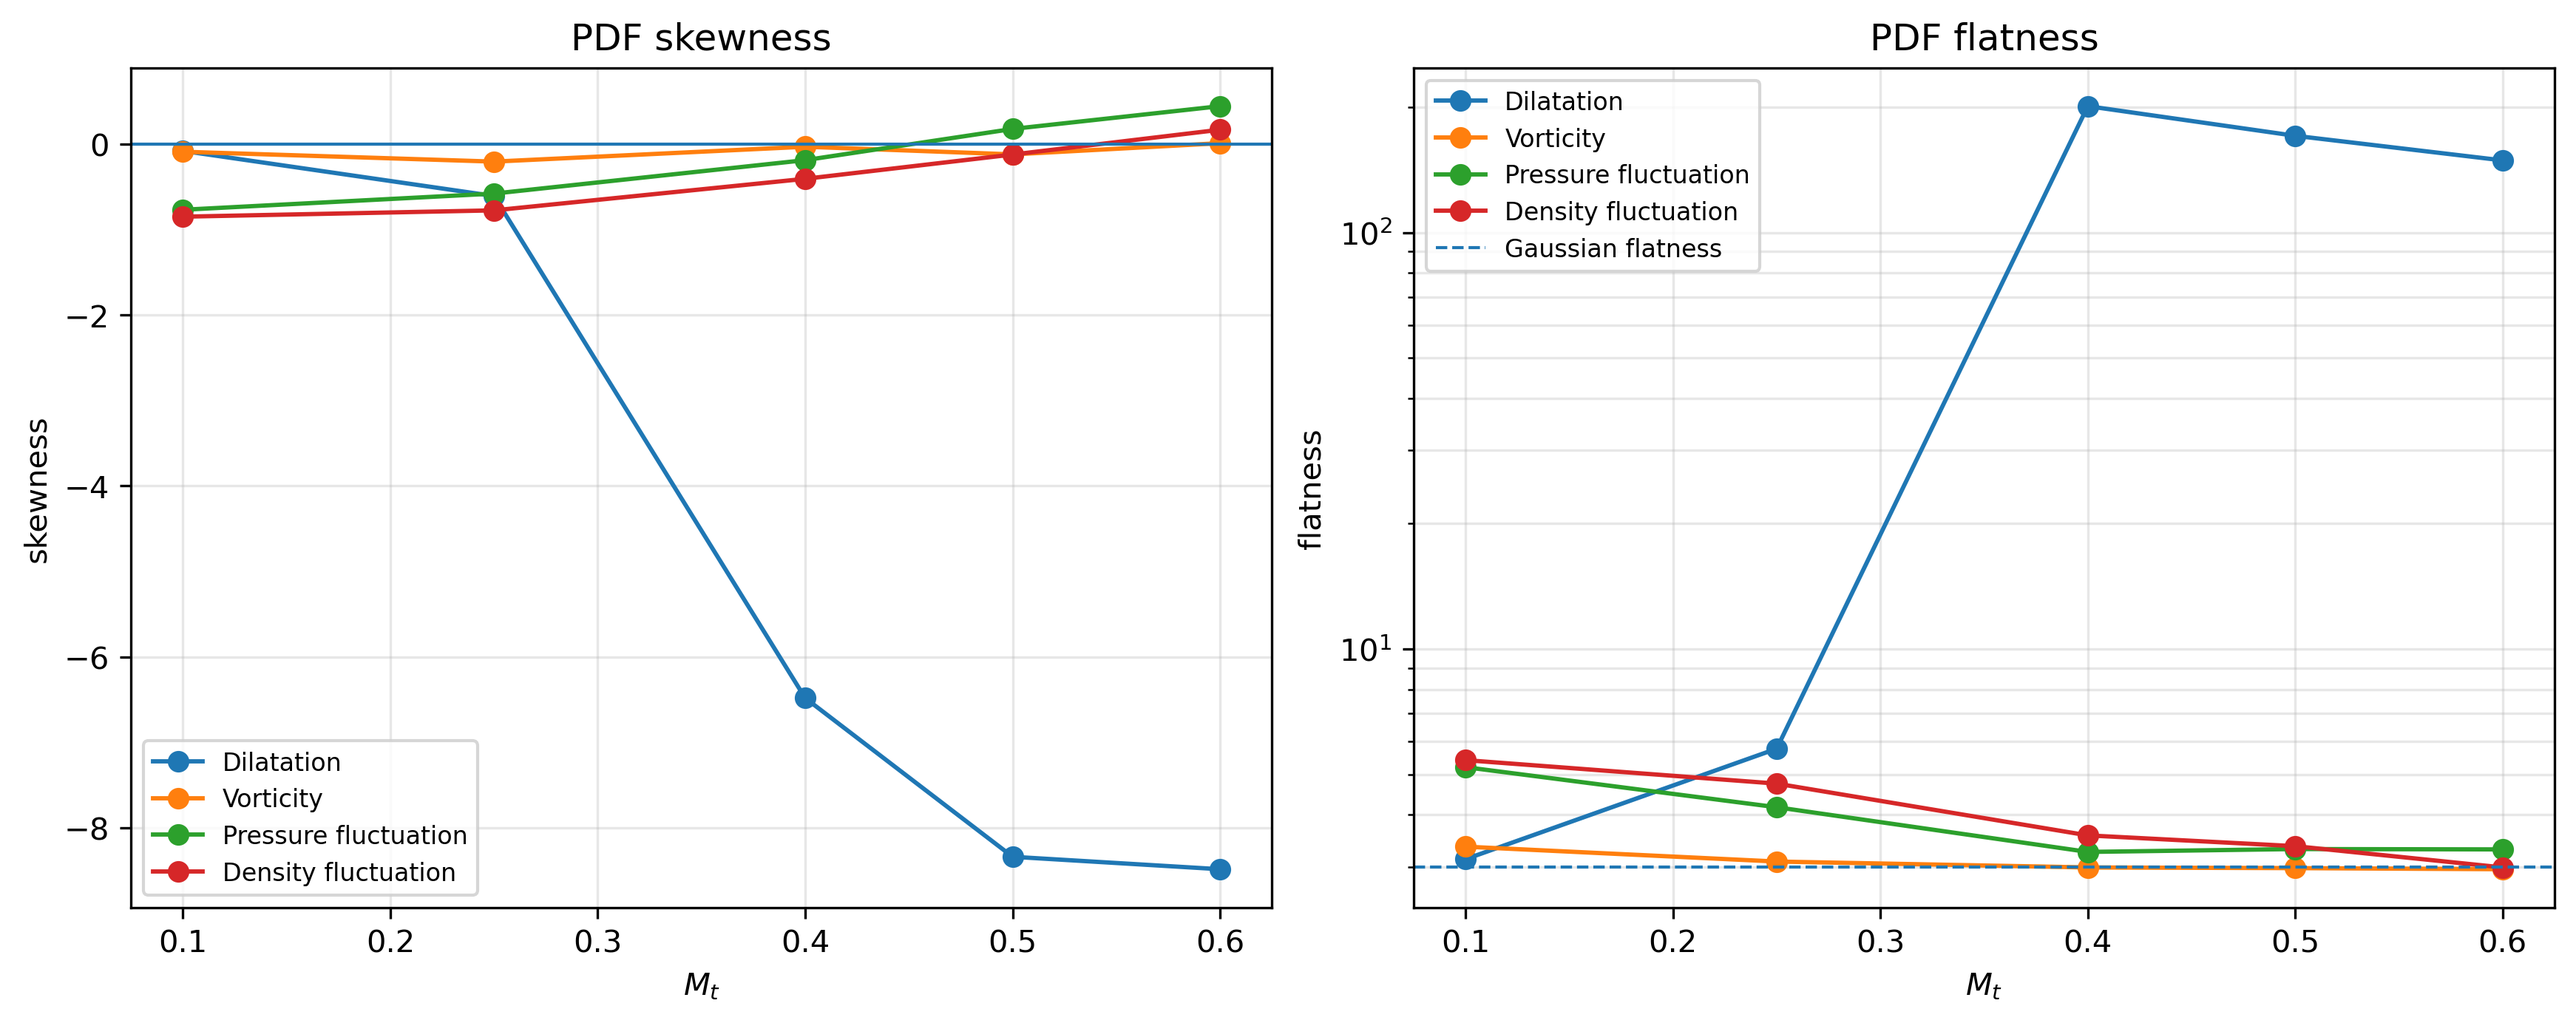
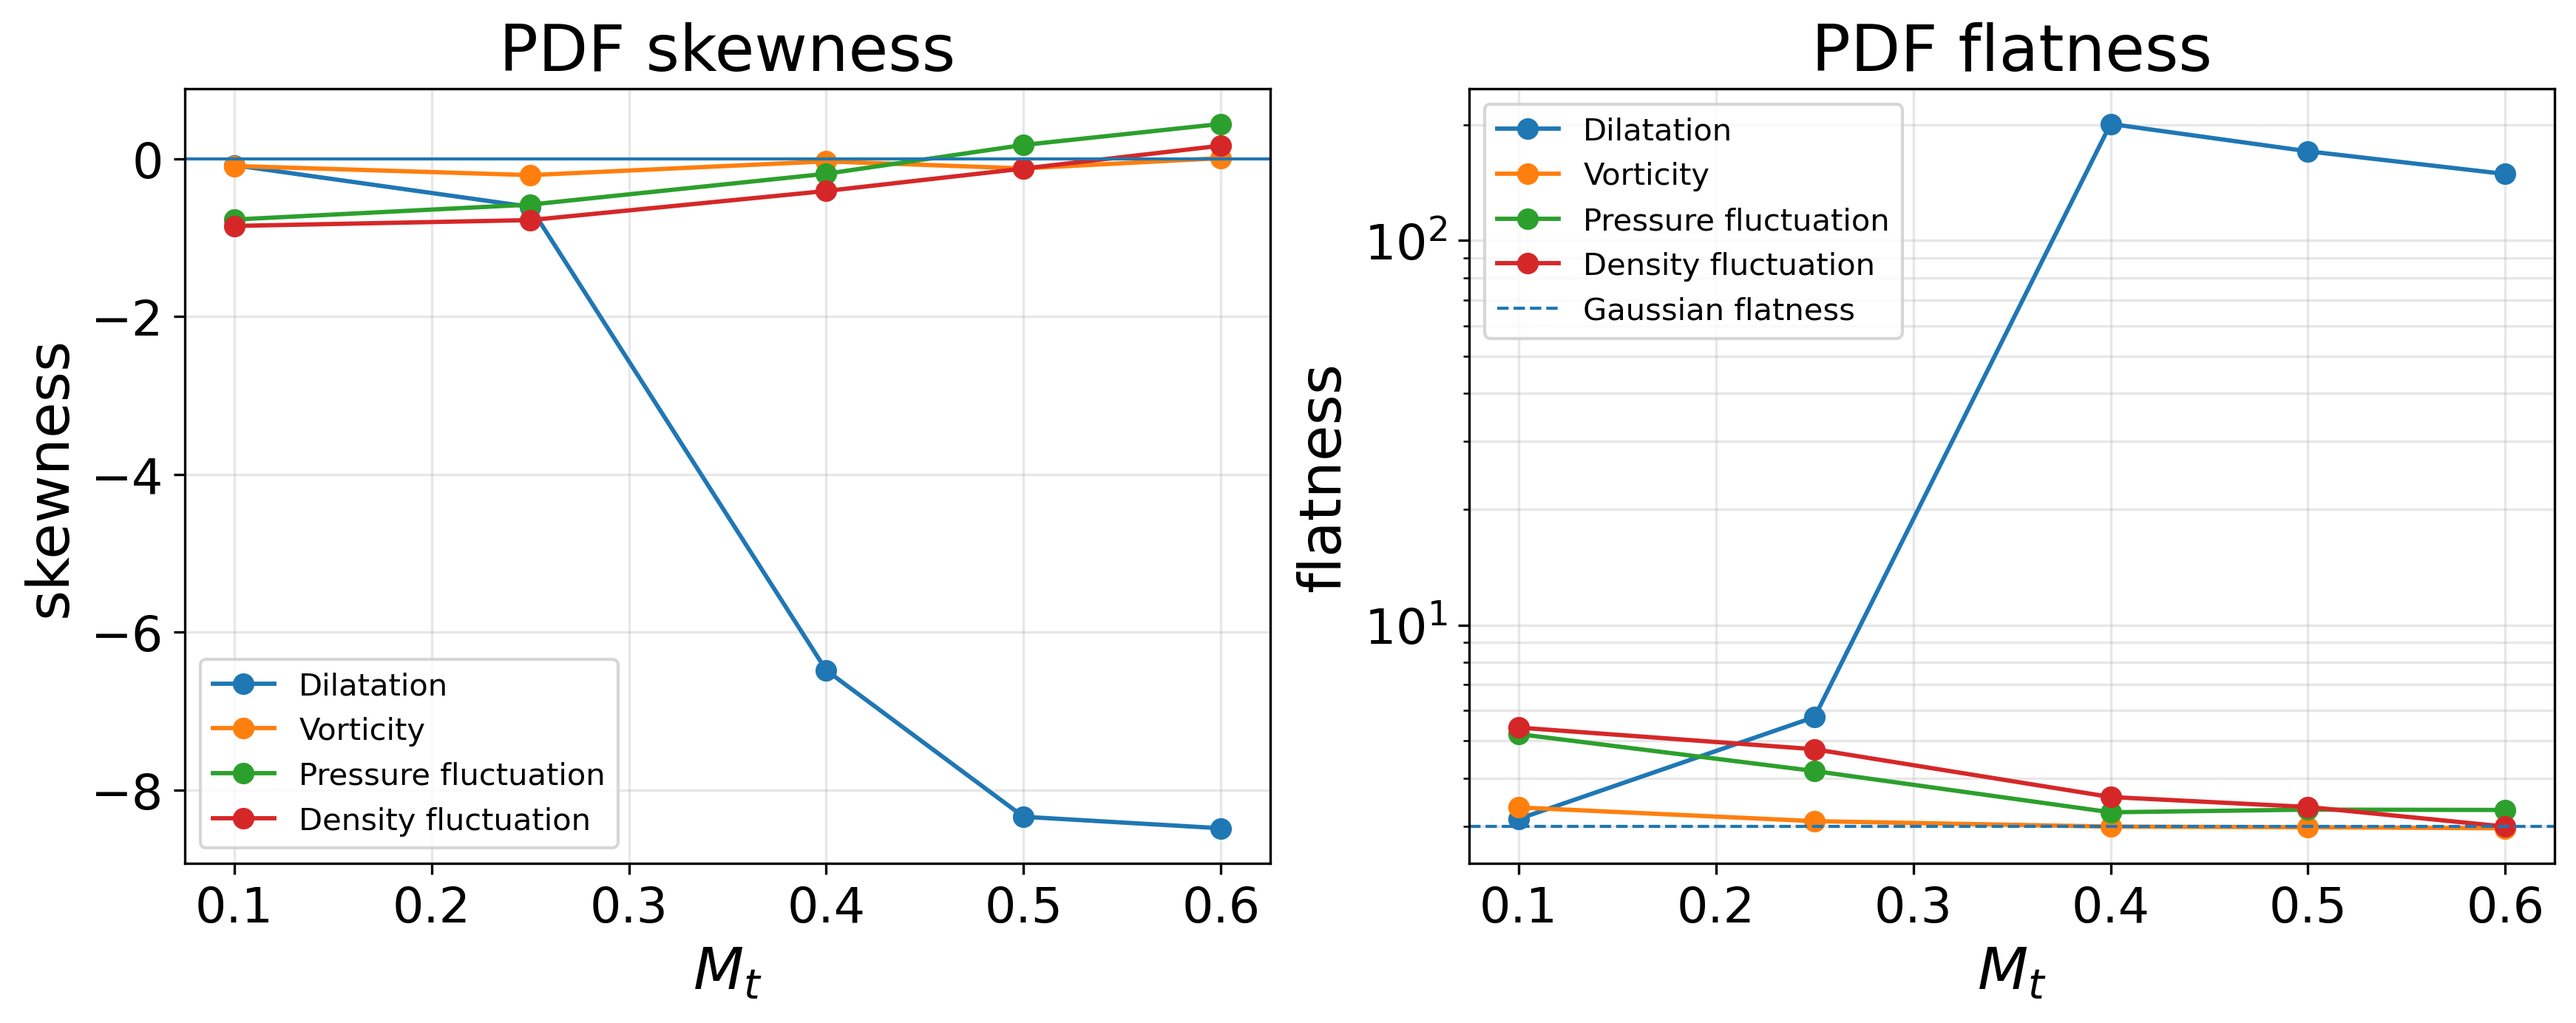
V2: figures format solenoidal Mt=0.25

diff --git a/OOP/postprocess/thesis_plot_style.py b/OOP/postprocess/thesis_plot_style.py
@@ -8,14 +8,14 @@ import matplotlib as mpl
 
 @dataclass(frozen=True)
 class ThesisPlotStyle:
-    base: float = 17.0
-    axes_title: float = 19.0
-    axes_label: float = 18.0
-    ticks: float = 15.0
-    legend: float = 15.0
-    figure_title: float = 21.0
-    colorbar_label: float = 17.0
-    annotation: float = 13.0
+    base: float = 18.0
+    axes_title: float = 22.0
+    axes_label: float = 20.0
+    ticks: float = 17.0
+    legend: float = 14.0
+    figure_title: float = 24.0
+    colorbar_label: float = 19.0
+    annotation: float = 12.0
     min_dpi: int = 300
 
 
@@ -67,6 +67,7 @@ def apply_thesis_style(style: ThesisPlotStyle | None = None):
     old_text = Axes.text
     old_suptitle = Figure.suptitle
     old_savefig = Figure.savefig
+    old_figure_colorbar = Figure.colorbar
     old_cbar_label = Colorbar.set_label
 
     def set_title(self, label, fontdict=None, loc=None, pad=None, *, y=None, **kwargs):
@@ -149,12 +150,19 @@ def apply_thesis_style(style: ThesisPlotStyle | None = None):
             kwargs["dpi"] = max(int(dpi), style.min_dpi)
         return old_savefig(self, fname, *args, **kwargs)
 
+    def figure_colorbar(self, *args, **kwargs):
+        cbar = old_figure_colorbar(self, *args, **kwargs)
+        cbar.ax.tick_params(labelsize=style.ticks)
+        return cbar
+
     def colorbar_label(self, label, *, loc=None, **kwargs):
         kwargs["fontsize"] = max(
             _numeric(kwargs.get("fontsize"), style.colorbar_label),
             style.colorbar_label,
         )
-        return old_cbar_label(self, label, loc=loc, **kwargs)
+        result = old_cbar_label(self, label, loc=loc, **kwargs)
+        self.ax.tick_params(labelsize=style.ticks)
+        return result
 
     Axes.set_title = set_title
     Axes.set_xlabel = set_xlabel
@@ -164,6 +172,7 @@ def apply_thesis_style(style: ThesisPlotStyle | None = None):
     Axes.text = text
     Figure.suptitle = suptitle
     Figure.savefig = savefig
+    Figure.colorbar = figure_colorbar
     Colorbar.set_label = colorbar_label
 
     Axes._thesis_font_patch = True

diff --git a/scripts/plot_final_thesis_polished.py b/scripts/plot_final_thesis_polished.py
@@ -203,7 +203,7 @@ def plot_spectra(cases, output_dir, dpi, chi_floor, absolute_floor):
     vals=np.concatenate(plotted); peak=float(np.nanmax(vals)); pmin=float(np.nanmin(vals))
     ymin=max(0.5*pmin, max(float(absolute_floor),0.0)*peak); ymax=2.0*peak
 
-    fig=plt.figure(figsize=(12.8,10.0), constrained_layout=True)
+    fig=plt.figure(figsize=(14.2,11.2), constrained_layout=True)
     gs=fig.add_gridspec(2,2)
     axes=[fig.add_subplot(gs[0,0]), fig.add_subplot(gs[0,1]), fig.add_subplot(gs[1,:])]
     for rec in loaded:
@@ -252,7 +252,7 @@ def plot_trends(rows, output_dir, target_re, dpi):
     rel = np.array([float(r.get("Re_lambda_mean", np.nan)) for r in rows])
     rel_std = np.array([float(r.get("Re_lambda_std", np.nan)) for r in rows])
 
-    fig, axes = plt.subplots(1, 3, figsize=(15.5, 4.7), constrained_layout=True)
+    fig, axes = plt.subplots(1, 3, figsize=(17.2, 5.5), constrained_layout=True)
 
     valid = np.isfinite(mt) & np.isfinite(chi)
     yerr = np.where(np.isfinite(chi_std[valid]), 100*chi_std[valid], 0.0)
@@ -302,7 +302,7 @@ def plot_trends(rows, output_dir, target_re, dpi):
 def plot_pdf_moments(rows, output_dir, dpi):
     rows=sorted(rows,key=lambda r:float(r["Mt_target"])); mt=np.array([float(r["Mt_target"]) for r in rows])
     variables=[("dilatation","Dilatation"),("vorticity","Vorticity"),("pressure","Pressure fluctuation"),("density","Density fluctuation")]
-    fig,axes=plt.subplots(1,2,figsize=(11.8,4.9),constrained_layout=True)
+    fig,axes=plt.subplots(1,2,figsize=(13.6,5.8),constrained_layout=True)
     for var,label in variables:
         skew=np.array([float(r.get(f"{var}_skewness_temporal_mean",np.nan)) for r in rows]); ss=np.array([float(r.get(f"{var}_skewness_temporal_std",np.nan)) for r in rows])
         flat=np.array([float(r.get(f"{var}_flatness_temporal_mean",np.nan)) for r in rows]); fs=np.array([float(r.get(f"{var}_flatness_temporal_std",np.nan)) for r in rows])

diff --git a/scripts/plot_final_thesis_hit_results.py b/scripts/plot_final_thesis_hit_results.py
@@ -612,7 +612,7 @@ def plot_pdf_comparison(cases: list[tuple[float, Path]], output_dir: Path, dpi: 
         ("pressure", r"$p'/p_{rms}$", "Pressure fluctuation"),
         ("density", r"$\rho'/\rho_{rms}$", "Density fluctuation"),
     ]
-    fig, axes = plt.subplots(2, 2, figsize=(11.8, 8.6), constrained_layout=True)
+    fig, axes = plt.subplots(2, 2, figsize=(13.6, 10.0), constrained_layout=True)
     for ax, (variable, xlabel, title) in zip(axes.flat, variables):
         for rec in loaded:
             x = rec[f"{variable}_bin_centers"]

diff --git a/README_final_thesis_format.md b/README_final_thesis_format.md
@@ -1,45 +1,102 @@
-# Final Results-figure formatting patch
+# Final thesis post-processing — enlarged fonts update
 
-This patch changes post-processing only. It does not modify or rerun the CFD solver.
+This patch supersedes the previous `thesis_final_results_format_patch.zip`.
 
-## Changes
+It changes **plotting/post-processing only**. No CFD simulation is launched and
+no saved numerical results are modified.
 
-- `Mt=0.25` diagnostic figures are regenerated with larger titles, axes, ticks and legends.
-- The `Mt=0.25` PDF figure contains only the four marginal PDFs + Gaussian references (2x2).
-  The joint PDF and pooled moments remain saved in `pdf_diagnostics.npz` for textual/table discussion.
-- Low/high Mach normalized fields use a four-row by two-column layout: one physical field per row and the two Mach cases side by side. This avoids the former four-panels-across layout while preserving all eight maps.
-- The cross-Mach spectral figure uses a triangular layout: two panels on top, dilatational fraction below.
-- The scale-dependent dilatational-fraction threshold note is removed from inside the plot.
-- Cross-Mach PDF legends are smaller, especially in the dilatation panel.
-- PDF-moment legends are smaller and the flatness legend is placed at upper left.
+## Why this update is needed
+
+In the previous launcher, the detailed `M_t=0.25` diagnostics were executed
+through the thesis-font wrapper, but the two cross-Mach plotting scripts were
+called directly. Consequently, these figures still had comparatively small
+axes/title/tick text:
+
+- `mach_pdfs.png`
+- `mach_spectra_polished.png`
+- `mach_trends_uncertainty.png`
+- `pdf_moments_uncertainty.png`
+
+This version sends both cross-Mach scripts through the same font-control layer.
+It also enlarges the `reference_Mt025_fields.png` rendering and colorbar tick
+labels.
+
+## Default font targets
+
+Detailed `M_t=0.25` figures:
+
+- subplot titles: 22 pt
+- axis labels: 20 pt
+- tick labels: 17 pt
+- legends: 14 pt
+- figure title: 24 pt
+
+Cross-Mach figures:
+
+- subplot titles: 21 pt
+- axis labels: 19 pt
+- tick labels: 16 pt
+- legends: 10 pt
+- figure title: 23 pt
+
+The cross-Mach legends are intentionally smaller than the axes text because five
+Mach-number curves must remain visible without the legend covering them.
 
 ## Install
 
 ```bash
 cd ~/github/HIT_Solver
-unzip -o ~/Downloads/thesis_final_results_format_patch.zip -d .
-chmod +x scripts/run_with_thesis_fonts.py scripts/postprocess_thesis_final_format.sh
+
+unzip -o \
+  ~/Downloads/thesis_final_results_large_fonts_patch.zip \
+  -d .
+
+chmod +x \
+  scripts/run_with_thesis_fonts.py \
+  scripts/postprocess_thesis_final_format.sh
 ```
 
-## Run
+## Re-run all thesis post-processing
 
 ```bash
 cd ~/github/HIT_Solver
+
 ./scripts/postprocess_thesis_final_format.sh
 ```
 
-No simulation is launched. Existing snapshots/diagnostics are reused.
+No simulation is rerun.
 
-The exact thesis-ready filenames are collected in:
+The complete updated thesis figure collection is written to:
 
 ```text
 results/hit2d/thesis_figures_final_layout/
 ```
 
-If the reference-case or campaign roots differ, override them:
+The files specifically affected by this update are:
+
+```text
+reference_Mt025_fields.png
+mach_pdfs.png
+mach_spectra_polished.png
+mach_trends_uncertainty.png
+pdf_moments_uncertainty.png
+```
+
+The other reference-case figures are regenerated with the same large-font style
+as well.
+
+## Optional font overrides
+
+If the paper PDF still reduces text too much, for example:
 
 ```bash
-REF_CASE=results/hit2d/solenoidal_Mt025_N512_CFL_0p05 \
-FINAL_ROOT=results/hit2d/final_thesis_Mach_ReL130_N512 \
+REF_TITLE_FONT=24 \
+REF_LABEL_FONT=22 \
+REF_TICK_FONT=18 \
+REF_LEGEND_FONT=15 \
+CROSS_TITLE_FONT=23 \
+CROSS_LABEL_FONT=21 \
+CROSS_TICK_FONT=18 \
+CROSS_LEGEND_FONT=11 \
 ./scripts/postprocess_thesis_final_format.sh
 ```
